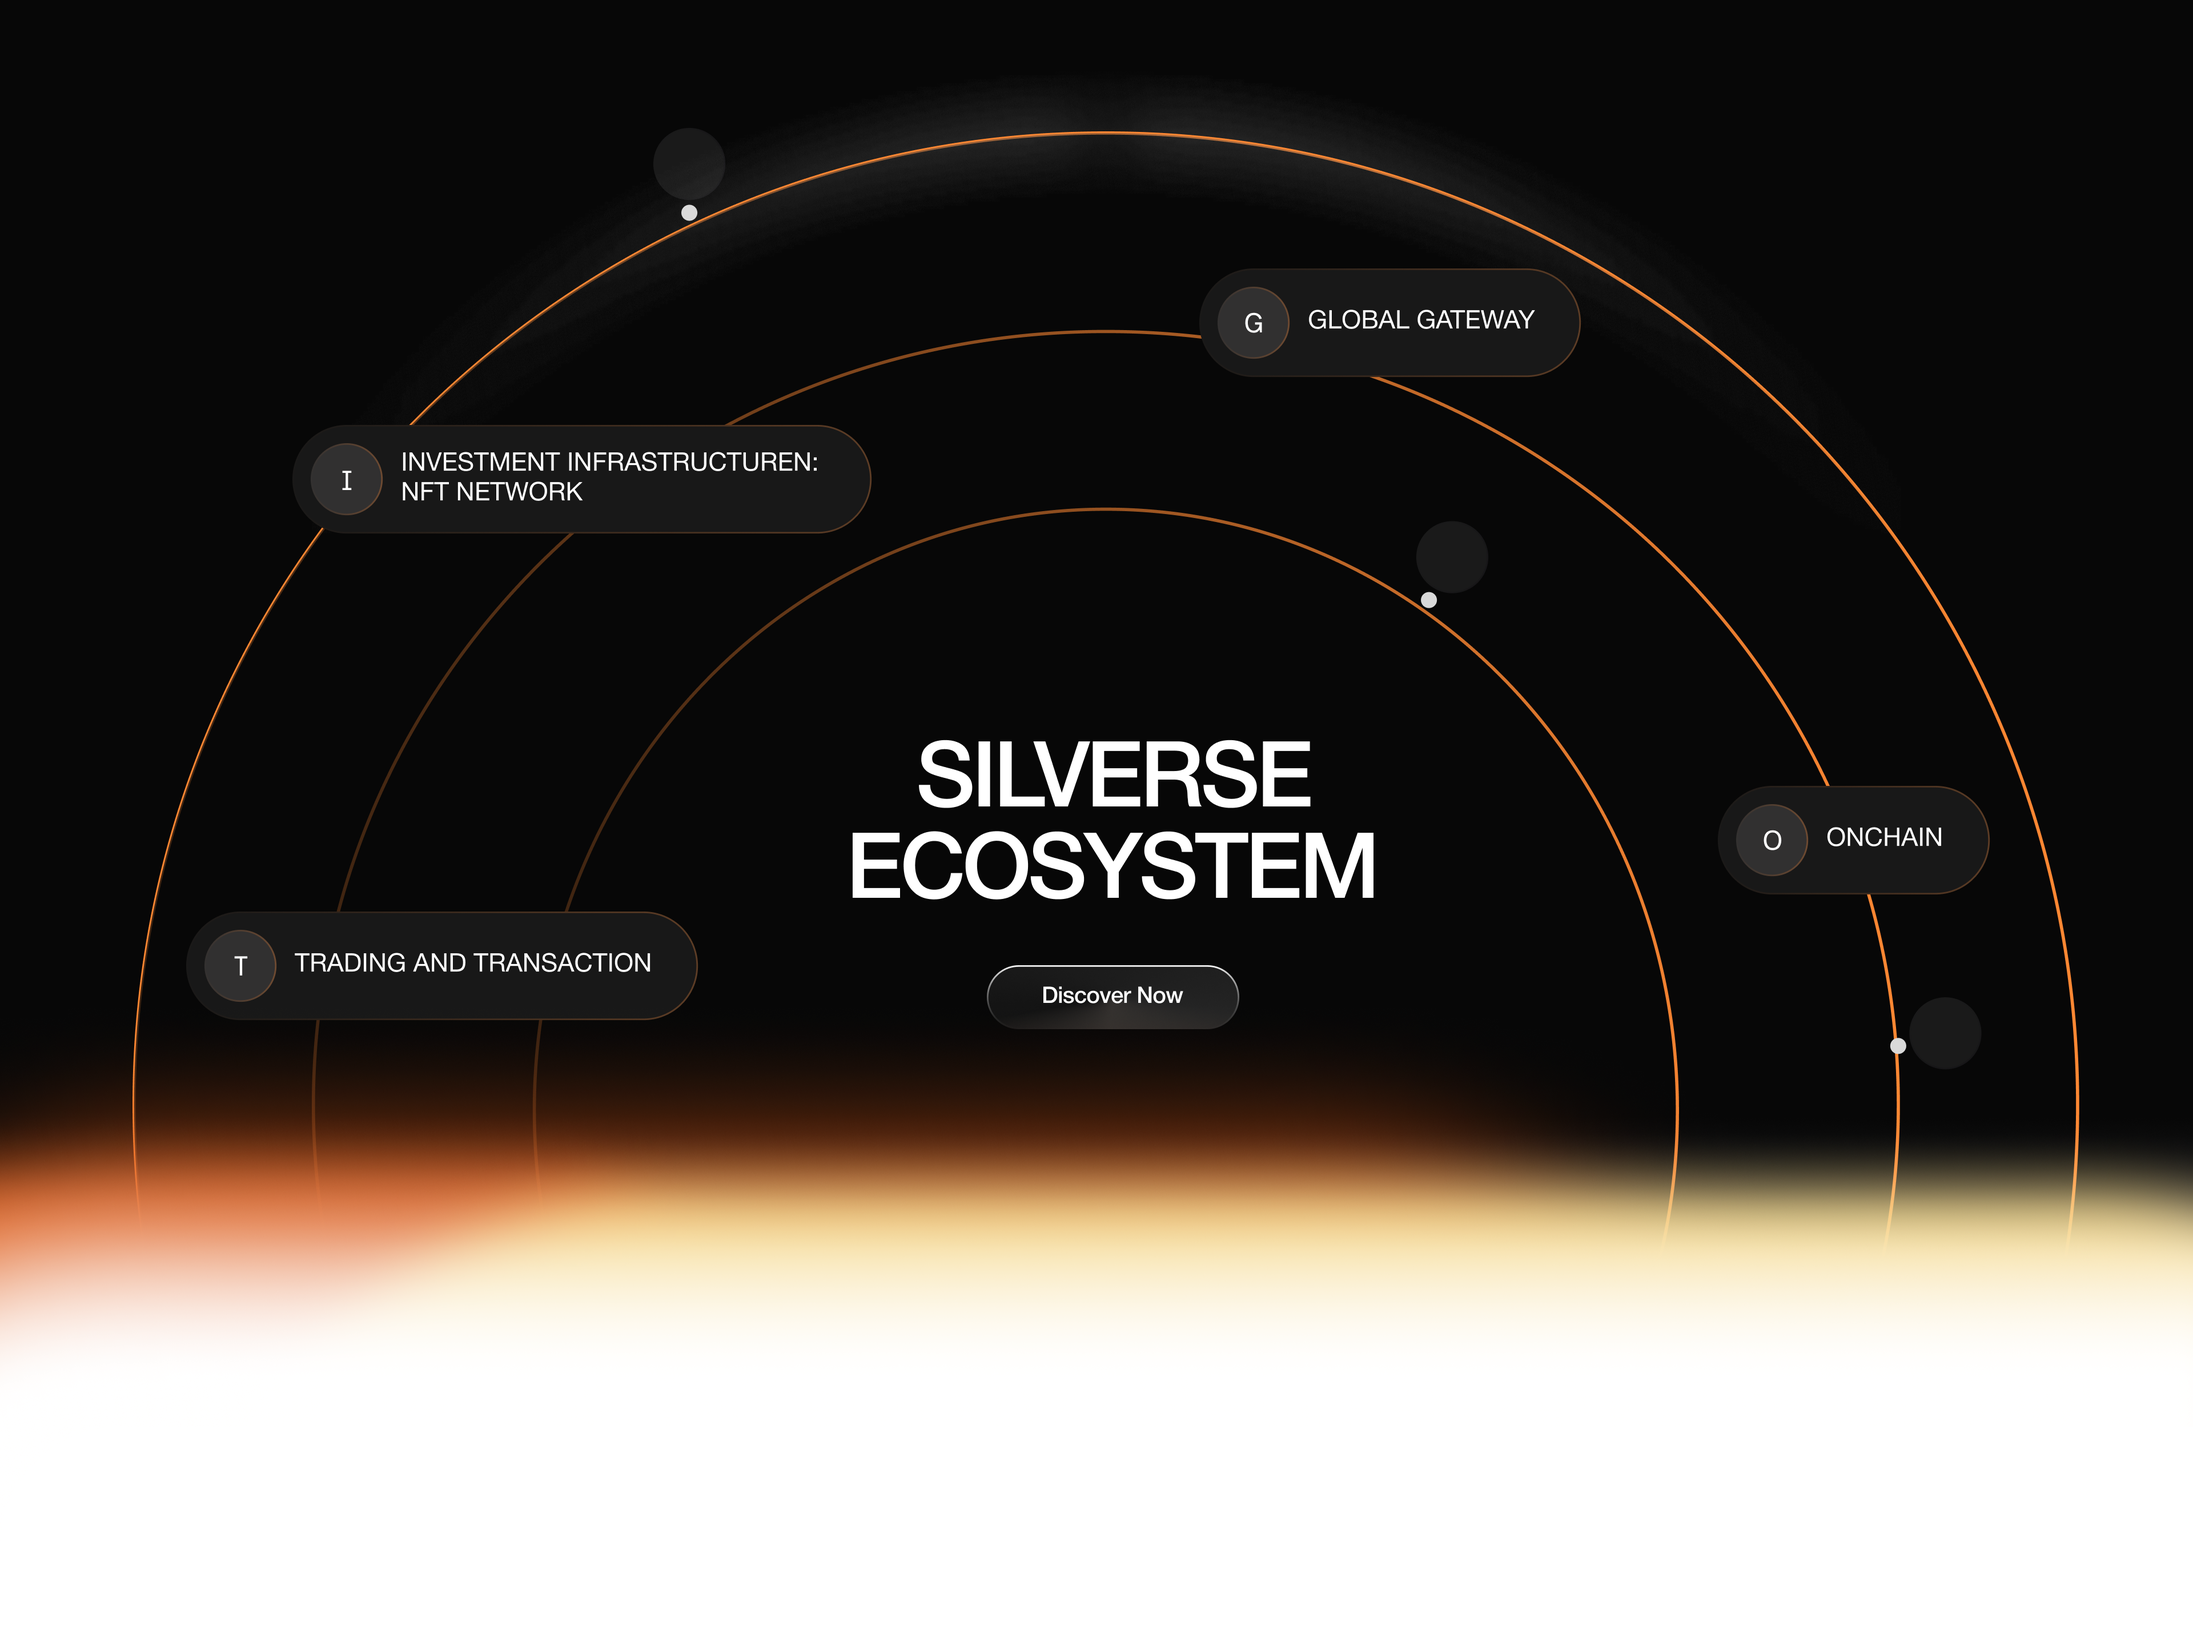
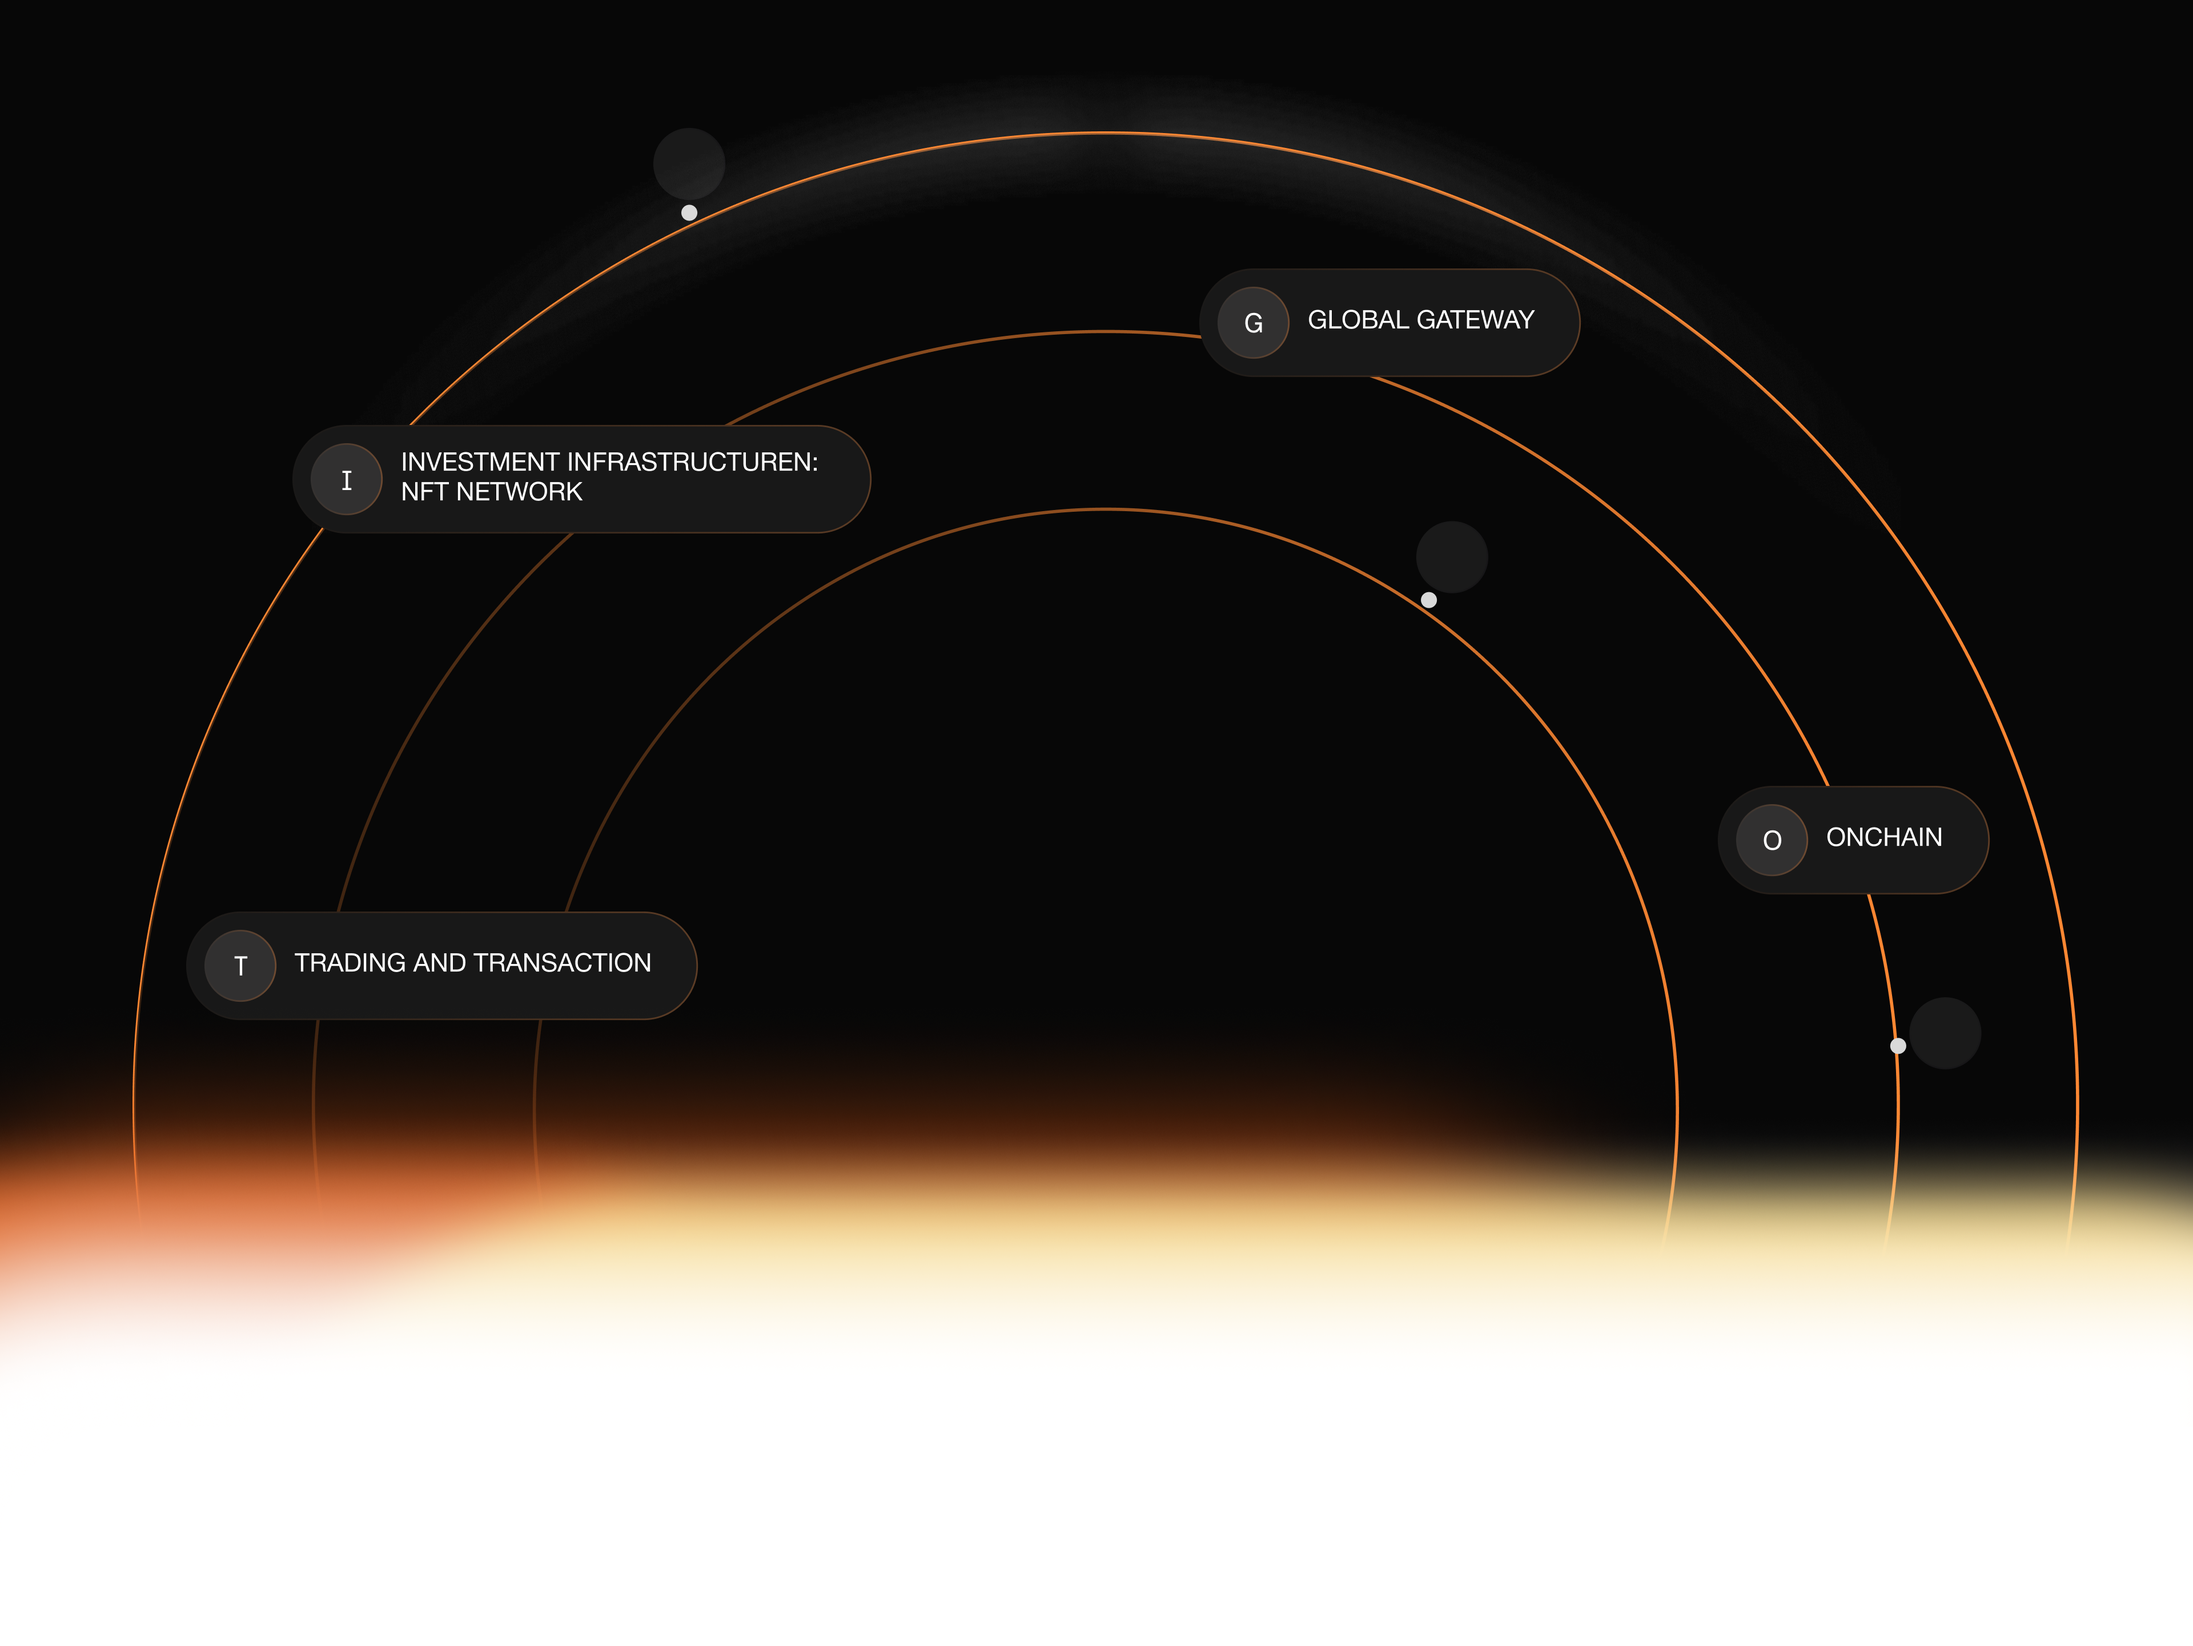
fix footer

Changed region(s): [[0.375, 0.4372, 0.625, 0.5621], [0.4688, 0.5933, 0.5625, 0.6246]]

diff --git a/features/Pioneer.tsx b/features/Pioneer.tsx
@@ -106,7 +106,7 @@ function Pioneer() {
         </Flex>
 
         <AspectRatio
-          ratio={isMobile ? 390 / 589 : 3840 / 2346}
+          ratio={isMobile ? 390 / 589 : 1920 / 1441}
           w={{ base: "120%", lg: "100%" }}
           id="ecosystem"
         >
@@ -118,7 +118,7 @@ function Pioneer() {
             <Center
               pos={"absolute"}
               w={"100%"}
-              bottom={{ base: "25%", xl: 280 }}
+              bottom={{ base: "25%", xl: 460 }}
             >
               <Box>
                 <Text
